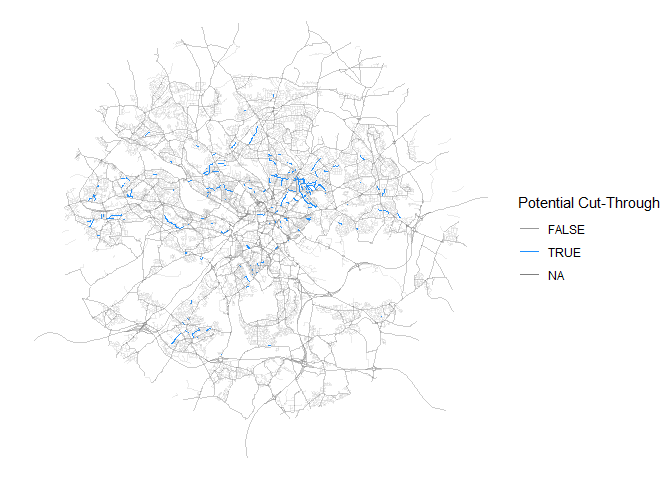
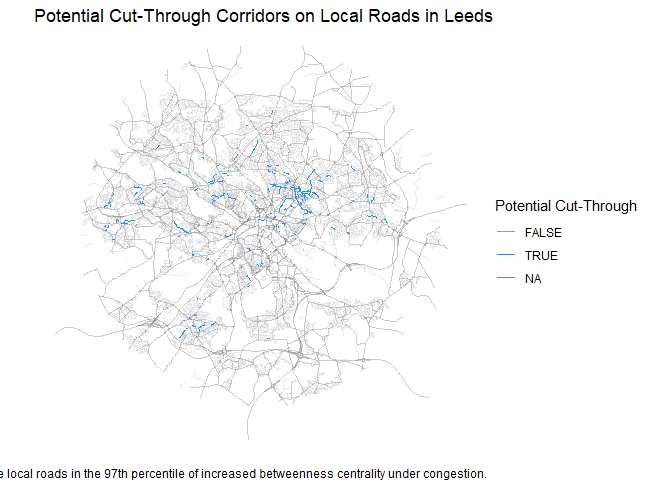
updated version

diff --git a/README.md b/README.md
@@ -5,22 +5,33 @@
 
 Identifying cut-through routes, commonly known as rat-runs, is a crucial
 step in transport model development, as recommended in the Department
-for Transport’s guidance (TAG Unit M3.1). Traditionally, this process
-relies heavily on local knowledge, which may not always be accessible.
-This reproducible workflow implemented in R utilises open data and
-network analysis techniques to identify these routes efficiently, even
-in the absence of detailed local insights.
+for Transport’s guidance (TAG Unit M3.1). These routes represent
+diversions from main roads onto local or minor roads, often to bypass
+congestion or avoid traffic signals. While traditionally, the
+identification of such routes relies heavily on local knowledge, this
+may not always be readily available or consistently applied. This
+reproducible workflow, implemented in R, offers a data-driven approach.
+It leverages open data sources and network analysis techniques to
+systematically and efficiently identify potential cut-through corridors,
+even in the absence of detailed local insights. This method provides a
+transparent and replicable process for transport planners and modellers.
 
 ## Set-up
 
-We will use the following packages for the analysis and to produce the
-outputs
+To begin our analysis, we first need to load the necessary R packages.
+These packages provide the functions required for spatial data
+manipulation, network analysis, and data visualization.
 
-We will take Leeds to exemplify the process.
+For this demonstration, we will focus our analysis on the city of Leeds.
+We use the `zonebuilder` package to define our study area. This package
+helps in creating consistent and reproducible geographical zones for
+analysis.
 
 ``` r
 selected_zones <- zonebuilder::zb_zone("Leeds",n_circles = 4)
 
+# We then create a Well-Known Text (WKT) representation of the convex hull of these zones.
+# This WKT filter will be used later to select network data only within our area of interest.
 zones_wkt <- selected_zones |>
   st_union() |>
   st_convex_hull() |>
@@ -28,10 +39,13 @@ zones_wkt <- selected_zones |>
   st_as_text()
 ```
 
-We will assume that all roads, have speed limits based on their types.
-Richer datasets might provide more detailed information, for example
-OSM. For the congested conditions, we will assume a reduction of 10 mph
-for the Motorways, A roads and B roads in the network.
+Next, we define assumed speed limits for different road types. In a
+real-world scenario, this data might come from more detailed datasets
+like Ordnance Survey MasterMap Highways Network or OpenStreetMap (OSM).
+For this example, we’ll use a simplified set of speeds. We also define
+speeds for congested conditions, assuming a reduction of 10 mph for
+Motorways, A roads, and B roads. These speeds are converted to meters
+per second, which is a common unit for network analysis calculations.
 
 ``` r
 custom_wp <- tibble(
@@ -42,8 +56,11 @@ custom_wp <- tibble(
   )
 ```
 
-For the road network, we will use OS OpenRoads available
-[here](https://www.ordnancesurvey.co.uk/products/os-open-roads).
+The road network data used in this analysis is OS OpenRoads, a freely
+available dataset from Ordnance Survey. We load the road links within
+our defined study area (using the `zones_wkt` filter) and exclude links
+classified as ‘access roads’ as these are typically not part of through
+routes. We then join our custom speed information to the network data.
 
 ``` r
 selected_network <- st_read(
@@ -51,10 +68,11 @@ selected_network <- st_read(
   wkt_filter = zones_wkt,
   query = "SELECT * FROM \"road_link\" WHERE road_function NOT LIKE '%access%'") |> 
   left_join(custom_wp,by = "road_function") |> 
-    # We calculate travel times for all corridors in both free-flow (speed-limit) and congested conditions (10n mph lower)
+    # With the speeds assigned, we can calculate travel times for each road segment.
+    # We calculate travel times for both free-flow (speed-limit) and congested conditions.
   mutate(
-    tra_time_ff = length/speed_ff,
-    tra_time_cg = length/speed_cg
+    tra_time_ff = length/speed_ff, # Travel time in free-flow (seconds)
+    tra_time_cg = length/speed_cg  # Travel time in congested conditions (seconds)
          )
 ```
 
@@ -67,7 +85,8 @@ selected_network <- st_read(
     Bounding box:  xmin: 418542.3 ymin: 421364.6 xmax: 441664.4 ymax: 443596
     Projected CRS: OSGB36 / British National Grid
 
-A quick visualisation of the data we will be using:
+Let’s take a quick look at the road network we’ve prepared. The map
+below shows the different types of roads in our Leeds study area.
 
     Warning in grid.Call(C_stringMetric, as.graphicsAnnot(x$label)): font family
     not found in Windows font database
@@ -82,47 +101,84 @@ A quick visualisation of the data we will be using:
 
 ![](README_files/figure-commonmark/unnamed-chunk-4-1.png)
 
-We will produce a graph representation of the network with the
-`sfnetworks` package.
+To perform network analysis, we need to convert our spatial lines data
+into a graph representation. The `sfnetworks` package is ideal for this,
+as it integrates `sf` spatial objects with `tidygraph` network analysis
+capabilities. We convert the `selected_network` into an `sfnetwork`
+object.
+
+A common step in network simplification is to remove ‘pseudo nodes’.
+These are nodes that connect only two edges and don’t represent true
+junctions or decision points in the network. Removing them simplifies
+the graph and can make subsequent analyses more efficient and
+meaningful. The `to_spatial_smooth` function helps achieve this by
+merging edges connected by pseudo nodes, while also summarizing their
+attributes (like summing lengths and travel times). We ensure that edges
+are only merged if they have the same `road_function`.
 
 ``` r
 net = as_sfnetwork(selected_network)
 
+# Simplifying the network by removing pseudo nodes
 net_simplified = convert(net,
                          to_spatial_smooth,
                          summarise_attributes = list(length = "sum",
                                                      tra_time_ff = "sum",
                                                      tra_time_cg = "sum",
-                                                     "first"
+                                                     "first" # Keep the first value for other attributes
                                                      ),
-                         require_equal = "road_function")
+                         require_equal = "road_function") # Only merge edges with the same road function
 ```
 
-We calculate the betweenness centrality for the baseline (free flow) and
-the congested state. And finally, we compare them
+The core of our analysis involves calculating ‘betweenness centrality’.
+This metric quantifies how often a particular road segment (edge) lies
+on the shortest paths between pairs of other locations in the network. A
+higher betweenness centrality suggests a road is more critical for
+connecting different parts of the network. We calculate this for two
+scenarios: 1. **Baseline (Free-flow):** Using travel times based on
+speed limits. 2. **Congested State:** Using travel times that reflect
+congestion on major roads.
+
+By comparing the centrality scores between these two states, we can
+identify roads that become disproportionately more ‘central’ or
+‘important’ when major roads are congested. These are potential
+candidates for cut-through routes. We use a `cutoff` of 5 minutes (300
+seconds) to limit the shortest path calculations, focusing on relatively
+local diversions.
 
 ``` r
+# Calculate edge betweenness centrality for free-flow conditions
 E(net_simplified)$centrality_ff <- edge_betweenness(
   net_simplified,
-  directed = F,
-  weights = E(net_simplified)$tra_time_ff,
-  cutoff = 5*60)
+  directed = F, # Undirected graph
+  weights = E(net_simplified)$tra_time_ff, # Use free-flow travel times as weights
+  cutoff = 5*60 # Consider paths up to 5 minutes
+  )
 
+# Calculate edge betweenness centrality for congested conditions
 E(net_simplified)$centrality_cg <- edge_betweenness(
   net_simplified,
-  directed = F,
-  weights = E(net_simplified)$tra_time_cg,
-  cutoff = 5*60)
+  directed = F, # Undirected graph
+  weights = E(net_simplified)$tra_time_cg, # Use congested travel times as weights
+  cutoff = 5*60 # Consider paths up to 5 minutes
+  )
 
+# Now, we calculate the difference in betweenness centrality.
+# A positive difference means the road segment became more central during congestion.
+# We also calculate a log-transformed difference to handle potential large variations and skewness.
 net_centrality <- net_simplified |> 
   activate(edges) |> 
   mutate(diff_bc = centrality_cg - centrality_ff,
          log_diff = if_else(diff_bc!=0,
-                            (diff_bc/abs(diff_bc))*log(abs(diff_bc)),0
+                            (diff_bc/abs(diff_bc))*log(abs(diff_bc)),0 # Log transform, preserving sign
                             ))
 ```
 
-Let’s visualise the different changes in centrality for local roads
+Let’s examine the distribution of these centrality changes, specifically
+for local roads. The histogram below shows the log-transformed
+difference in betweenness centrality. Values to the right of zero
+indicate local roads that gained importance (centrality) under congested
+conditions.
 
 ``` r
 sf_edges <- st_as_sf(net_centrality, "edges") |> 
@@ -134,67 +190,72 @@ sf_edges |>
     filter(road_function == "Local Road") |> 
     ggplot(aes(log_diff))+
     geom_histogram(col = "white")+
-    theme_minimal()
+    theme_minimal()+
+    labs(title = "Distribution of Centrality Change on Local Roads",
+         x = "Log-transformed Difference in Betweenness Centrality (Congested - Free Flow)",
+         y = "Frequency")
 ```
 
     `stat_bin()` using `bins = 30`. Pick better value with `binwidth`.
 
 ![](README_files/figure-commonmark/unnamed-chunk-7-1.png)
 
+Under congested conditions, most local roads loose *importance* as the
+major roads provide less connectivity. However, a portion of them become
+more important as they provide quicker routes for drivers, potentially
+indicating a cut-through corridor.
 
+We can explore the location of such corridors. These are the links with
+the highest values (97th percentile).
 
-    Under congested conditions, most local roads loose *importance* as the major roads provide less connectivity. However, a portion of them become more important as they provide quicker routes for drivers, potentially indicating a cut-through corridor.
+``` r
+cut_map <- sf_edges |>
+    # We are interested in the change on local roads
+    mutate(log_diff = if_else(road_function %in% c("Local Road"),log_diff,NA_real_)) |>
+    # Identify local roads in the top 3% of centrality increase
+     mutate(log_diff_p95 = log_diff > quantile(log_diff,0.97,na.rm = T)) |> 
+    ggplot()+
+  geom_sf(aes(col = log_diff_p95,
+              linewidth = road_function,
+              alpha = log_diff_p95
+              ))+
+  theme_void()+
+  labs(col = "Potential Cut-Through",
+       title = "Potential Cut-Through Corridors on Local Roads in Leeds",
+       caption = "Highlighted roads are local roads in the 97th percentile of increased betweenness centrality under congestion.")+
+  scale_color_manual(values = c("gray60","dodgerblue"))+
+  scale_linewidth_manual(values = 1/c(1.5,1.8,2.05,2.5,2.1),guide = 'none')+
+  scale_alpha_manual(
+    values = c(0.2,1),guide = 'none',na.value = 0.4
+    )+
+  guides(col=guide_legend(nrow=3,byrow=TRUE))+
+  theme(text = element_text(family = "Roboto Condensed"), legend.position = "right")
 
-    We can explore the location of such corridors. These are the links with the highest values (97th percentile).
-
-
-    ::: {.cell}
-
-    ```{.r .cell-code}
-    cut_map <- sf_edges |>
-        mutate(log_diff = if_else(road_function %in% c("Local Road"),log_diff,NA_real_)) |>
-         mutate(log_diff_p95 = log_diff > quantile(log_diff,0.97,na.rm = T)) |> 
-        ggplot()+
-      geom_sf(aes(col = log_diff_p95,
-                  linewidth = road_function,
-                  alpha = log_diff_p95
-                  ))+
-      theme_void()+
-      labs(col = "Potential Cut-Through")+
-      scale_color_manual(values = c("gray60","dodgerblue"))+
-      scale_linewidth_manual(values = 1/c(1.5,1.8,2.05,2.5,2.1),guide = 'none')+
-      scale_alpha_manual(
-        values = c(0.2,1),guide = 'none',na.value = 0.4
-        )+
-      guides(col=guide_legend(nrow=3,byrow=TRUE))+
-      theme(text = element_text(family = "Roboto Condensed"), legend.position = "right")
-
-    cut_map
-
-<div class="cell-output cell-output-stderr">
+cut_map
+```
 
     Warning in grid.Call(C_textBounds, as.graphicsAnnot(x$label), x$x, x$y, : font
     family not found in Windows font database
     Warning in grid.Call(C_textBounds, as.graphicsAnnot(x$label), x$x, x$y, : font
     family not found in Windows font database
 
-</div>
+    Warning in grid.Call(C_stringMetric, as.graphicsAnnot(x$label)): font family
+    not found in Windows font database
 
-<div class="cell-output cell-output-stderr">
+    Warning in grid.Call(C_textBounds, as.graphicsAnnot(x$label), x$x, x$y, : font
+    family not found in Windows font database
 
     Warning in grid.Call.graphics(C_text, as.graphicsAnnot(x$label), x$x, x$y, :
     font family not found in Windows font database
-
-</div>
-
-<div class="cell-output-display">
+    Warning in grid.Call.graphics(C_text, as.graphicsAnnot(x$label), x$x, x$y, :
+    font family not found in Windows font database
+    Warning in grid.Call.graphics(C_text, as.graphicsAnnot(x$label), x$x, x$y, :
+    font family not found in Windows font database
+    Warning in grid.Call.graphics(C_text, as.graphicsAnnot(x$label), x$x, x$y, :
+    font family not found in Windows font database
 
 ![](README_files/figure-commonmark/unnamed-chunk-9-1.png)
-
-</div>
 
 ``` r
 ggsave(plot = cut_map,filename = "cut_map.png",dpi = 320,width = 24,height = 14,units = "cm")
 ```
-
-:::
